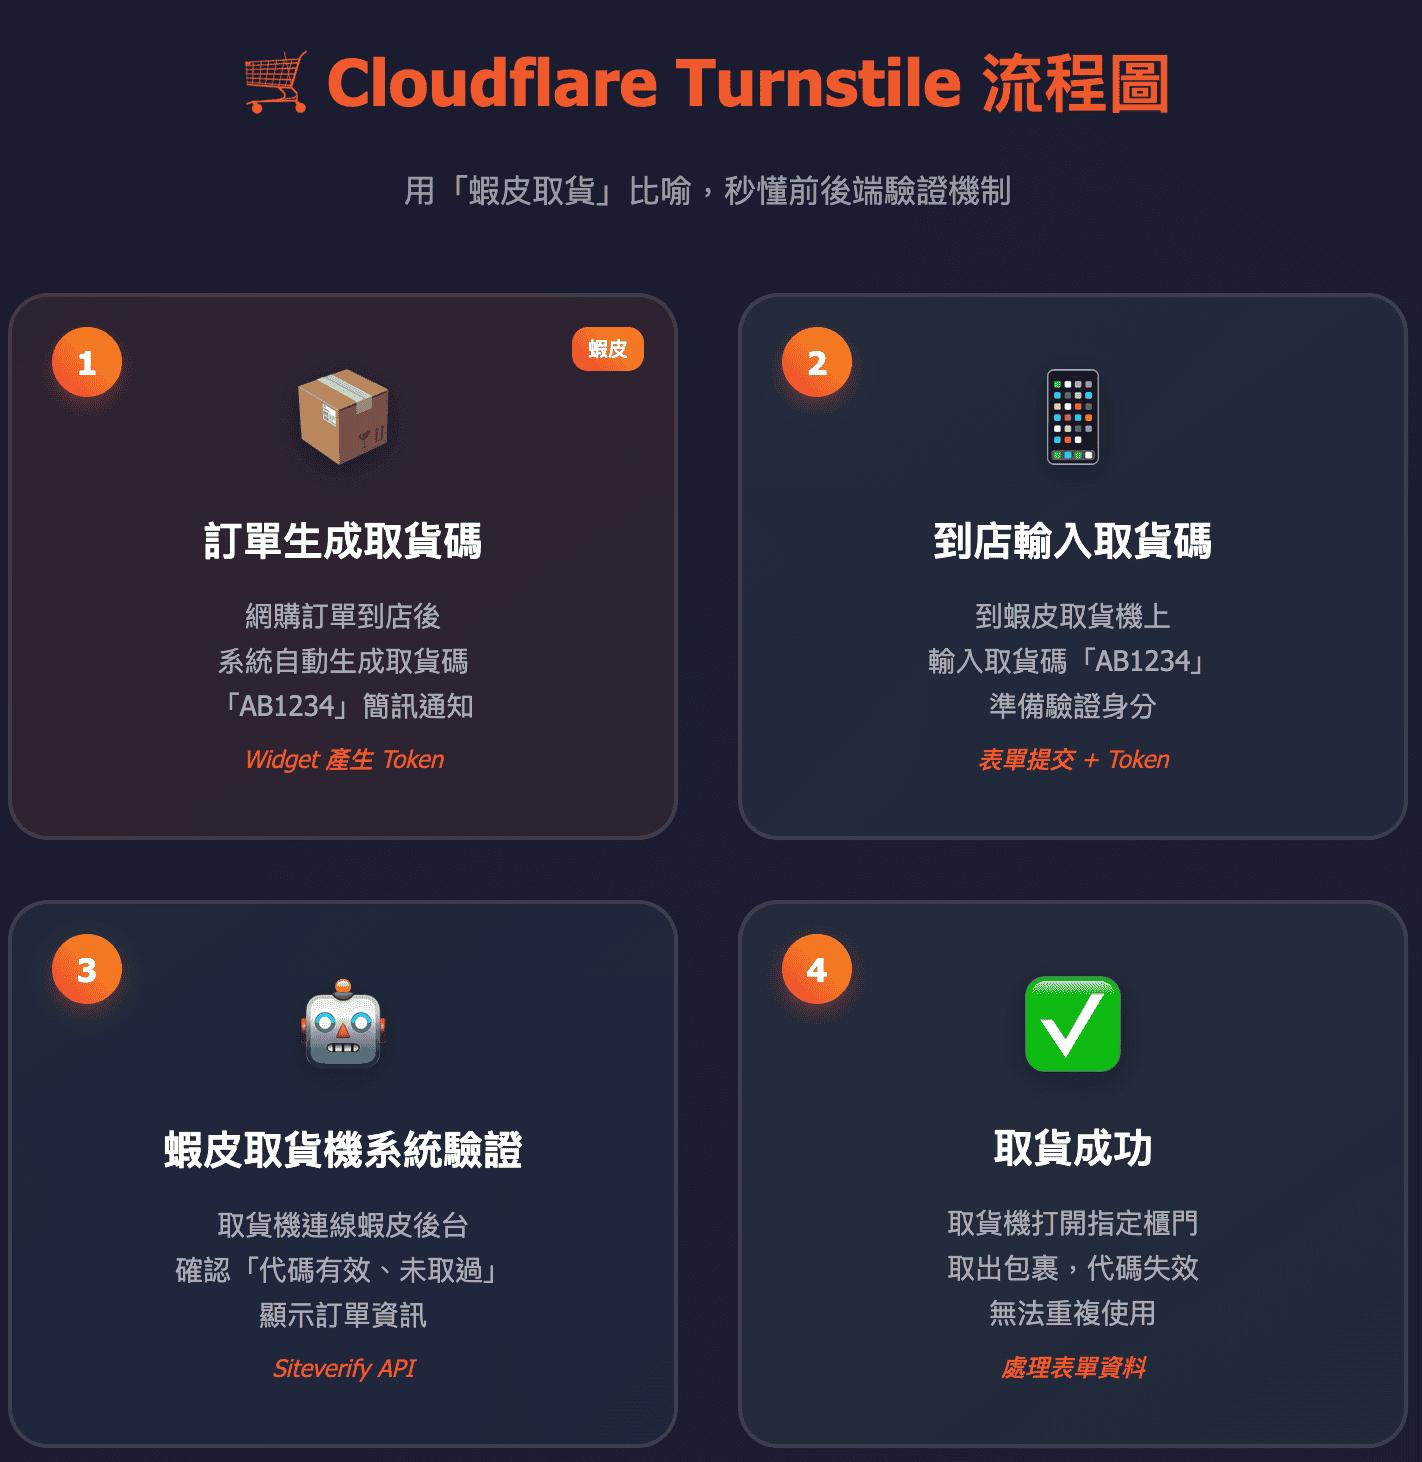
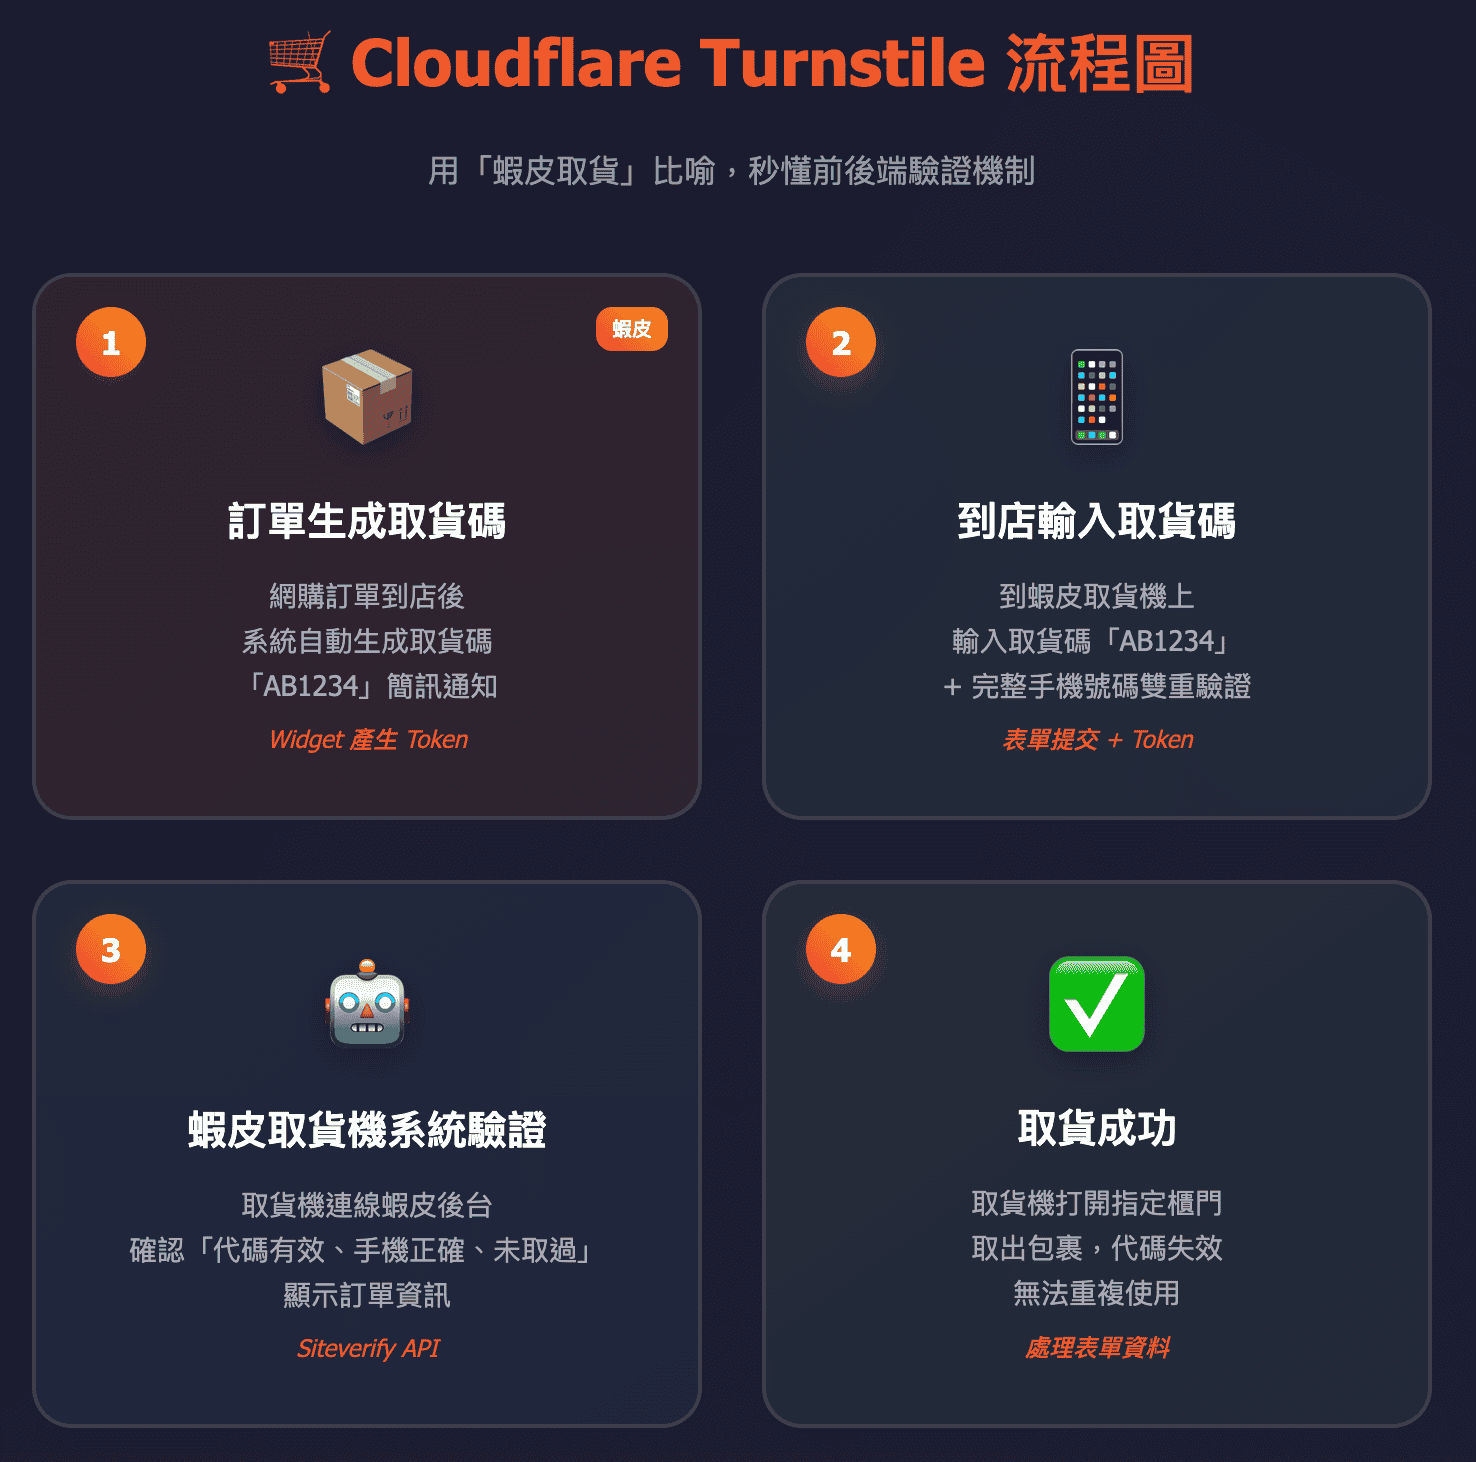
[UPDATE] 更新 n8n 與 Cloudflare Turnstile CAPTCHA 文章

diff --git a/source/_posts/n8n-with-cloudflare-turnstile-CAPTCHA.md b/source/_posts/n8n-with-cloudflare-turnstile-CAPTCHA.md
@@ -63,14 +63,14 @@ Cloudflare Turnstile 就能用來解決這個問題
 說明： 前端 Widget 向 Cloudflare 請求驗證 token，綁定特定網域
 
 2⃣ 到店輸入取貨碼
-比喻： 到蝦皮取貨機上輸入取貨碼「AB1234」準備驗證身分
+比喻： 到蝦皮取貨機上輸入取貨碼「AB1234」+ 完整手機號碼進行雙重驗證
 技術： 表單提交 + Token
-說明： 用戶填寫表單時，token 會自動附加在表單資料中一起送出
+說明： 用戶填寫表單時，token 會自動附加在表單資料中一起送出（就像需要代碼+手機驗證雙重確認）
 
 3⃣ 蝦皮取貨機系統驗證
-比喻： 取貨機連線蝦皮後台確認「代碼有效、未取過」顯示訂單資訊
+比喻： 取貨機連線蝦皮後台確認「代碼有效、手機號碼正確、未取過」顯示訂單資訊
 技術： Siteverify API
-說明： 後端接收表單後，必須用 secret 向 Cloudflare API 驗證 token 真偽
+說明： 後端接收表單後，必須用 secret 向 Cloudflare API 驗證 token 真偽（雙重檢查機制）
 
 4⃣ 取貨成功
 比喻： 取貨機打開指定櫃門，取出包裹，代碼失效無法重複使用
